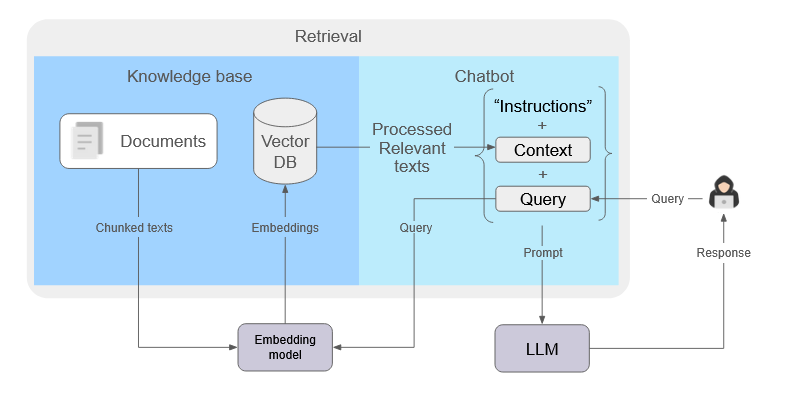
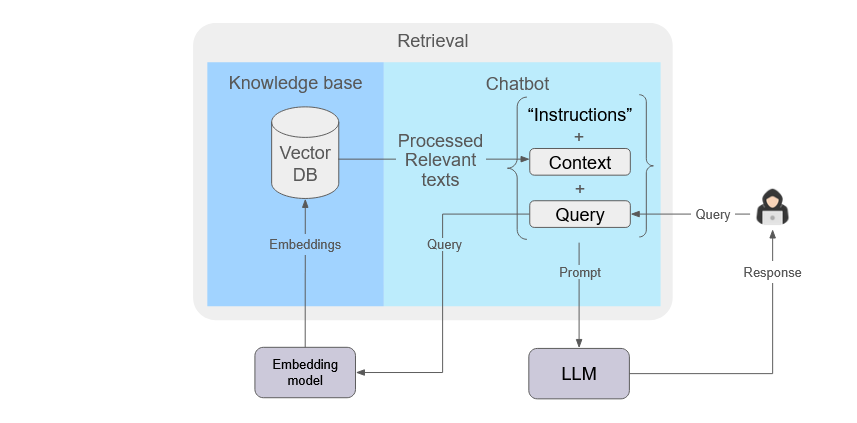
fix: added separate ingestion/retrieval diagrams, updated text

diff --git a/src/pages/case-study.md b/src/pages/case-study.md
@@ -117,9 +117,9 @@ In the final step of ingestion each chunk’s embedding is then stored in a vect
 
 <img src='/img/2-2-1-kb-embed3.png' alt='embedding3' />
 
-The completed picture of how a knowledge base supports retrieval in a RAG system is shown below.
+A summary representation of the ingestion process in a knowledge base is shown below.
 
-<img src='/img/2-2-1-kb-embed-last.png' alt='a knowledgebase supports retrieval' />
+<img src='/img/2-2-1-kb-embed-last1.png' alt='a knowledgebase supports retrieval' />
 
 
 #### 2.2.2 Processing a query
@@ -127,6 +127,17 @@ When a user submits a query (“1” in diagram below), it is embedded using the
 
 <img src='/img/2-2-2-kb-query.png' alt='querying' />
 
+#### 2.2.3 Summary of retrieval
+In the diagram below, we summarize the steps involved in retrieval from a knowledge base:
+<ol>
+  <li>User submits a query,</li>
+  <li>Query is embedded via the same embedding model used for ingestion,</li>
+  <li>Query embedding is used for vector similarity search against the embeddings in the vector DB,</li>
+  <li>Relevant text chunks are returned from vector similarity search, and</li>
+  <li>Combined instructions, context (of relevant text chunks), and user query is sent to the LLM as a prompt to generate a response.</li>
+</ol>
+
+<img src='/img/2-2-2-kb-query2.png' alt='retrieval with knowledge base' />
 
 ### 2.3 Post-processing context
 
